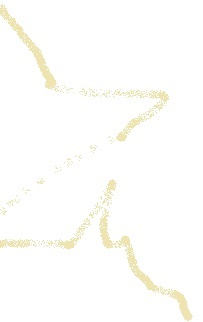
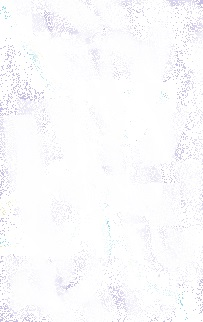
Rewarding success with embedding object-supplied JSON into the HTML SCRIPT & FORM elements.    But the Save isn't working.

diff --git a/ciBadgeForWeb/JS_Moveable_Divs_HTM/drag_elements_JSON_groups.htm b/ciBadgeForWeb/JS_Moveable_Divs_HTM/drag_elements_JSON_groups.htm
@@ -132,11 +132,11 @@
 
 
 
-    <div id="Element1" class="mydiv_class" style="position: absolute; top: 250px; left: 100px; border-width: thick; ">
+    <div id="Element1" class="mydiv_class" style="position: absolute; top: 250px; left: 100px; border-width: thin; ">
         <img src="blue_star.jpg" width="200" height="30" />
     </div>
 
-    <div id="Element2" class="mydiv_class" style="position: absolute; top: 250px; left: 200px; border-width: thick; ">
+    <div id="Element2" class="mydiv_class" style="position: absolute; top: 250px; left: 200px; border-width: thin; ">
         <img src="blue_star.jpg" width="200" height="30" />
     </div>
 
@@ -381,6 +381,10 @@
             //
             //for (each_ElementID in mod_array_elementIDs) {
             //mod_array_elementIDs.forEach(each_ElementID => {
+
+            let index_of_movedElement = mod_array_elementIDs.indexOf(par_omit_elmntDiv);
+            let boolHasItAlready = (0 <= index_of_element);
+
             mod_array_elementIDs.forEach(each_Element => {
                 // We are iterating through the selected Elements.
                 //-----tempElem = document.getElementById(each_ElementID);

diff --git a/ciBadgeForWeb/Models/JsonFile.cs b/ciBadgeForWeb/Models/JsonFile.cs
@@ -19,8 +19,21 @@ namespace ciBadgeForWeb.Models
         [Key]
         public int JsonFileID { get; set; }
 
-        public string JsonTextContent { get; set; }
+        //Added 3/21/2020 thomas downes
+        private string mod_JsonTextContent = "{\"Element4_top\":\"352px\",\"Element4_left\":\"532px\",\"Element3_top\":\"352px\",\"Element3_left\":\"314px\",\"Element6_top\":\"351px\",\"Element6_left\":\"91px\",\"Element5_top\":\"496px\",\"Element5_left\":\"87px\",\"Element2_top\":\"499px\",\"Element2_left\":\"313px\",\"Element1_top\":\"499px\",\"Element1_left\":\"535px\",\"Element9_top\":\"400px\",\"Element9_left\":\"88px\",\"Element8_top\":\"448px\",\"Element8_left\":\"87px\",\"Element10_top\":\"403px\",\"Element10_left\":\"314px\",\"Element11_top\":\"451px\",\"Element11_left\":\"314px\",\"Element12_top\":\"404px\",\"Element12_left\":\"533px\",\"Element7_top\":\"454px\",\"Element7_left\":\"535px\"}";
 
+        public string JsonTextContent {
+            get
+            {
+                //Added 3/21/2020 thomas downes
+                return mod_JsonTextContent;
+            }
+            set
+            {
+                //Added 3/21/2020 thomas downes
+                mod_JsonTextContent = value;
+            }
+        }
 
         public string FullPathToFile { get; set; }
 
@@ -35,10 +48,23 @@ namespace ciBadgeForWeb.Models
 
             // Get the JSON file.  
             strFullPathToJsonFile = ciBadgeForWeb.App_Start.DiskFiles.PathToFile_JSON_Current(true);
+            
+            // Added 3/21/2020 td
+            if (Directory.Exists(strFullPathToJsonFile))
+            {
+                if (false == File.Exists(strFullPathToJsonFile))
+                {
+                    // Added 3/21/2020 td
+                    throw new System.IO.FileNotFoundException("OOps... This is a folder, not a file.");
+                }
+            }
 
             this.FullPathToFile = strFullPathToJsonFile;
             this.JsonTextContent = File.ReadAllText(strFullPathToJsonFile);
 
+            if (false)
+            {  
+            }
 
         }
 

diff --git a/ciBadgeForWeb/App_Start/DiskFiles.cs b/ciBadgeForWeb/App_Start/DiskFiles.cs
@@ -278,10 +278,11 @@ namespace ciBadgeForWeb.App_Start
             {
                 // 2-4-2020 td //foreach (FileInfo file_Info in (new DirectoryInfo(strPathToFolderJSON)).GetFiles("*.JSON"))
                 FileInfo[] array_fileInfos = (new DirectoryInfo(strPathToFolderJSON)).GetFiles("*.JSON");  //Added 2/4/2020 thomas downes
+
                 foreach (FileInfo file_Info in array_fileInfos.OrderByDescending(n => n.LastWriteTime))
                 {
                     //Added 2/16/2020 thomas downes
-                    boolExpectedFileType = file_Info.Name.EndsWith(".JSON");
+                    boolExpectedFileType = file_Info.Name.EndsWith(".json");
                     boolPossiblyCorrupt = (!(boolExpectedFileType));
                     if (boolPossiblyCorrupt) continue;  //Skip this file!!
 

diff --git a/ciBadgeForWeb/Controllers/JsonFileController.cs b/ciBadgeForWeb/Controllers/JsonFileController.cs
@@ -32,8 +32,15 @@ namespace ciBadgeForWeb.Controllers
         {
             try
             {
-                // TODO: Add update logic here
+                // Save the JSON string with the Left & Top positions of the elements. 
 
+                //Added 3/21/2020 thomas downes
+                JsonFile_MoveableDivs.JsonTextContent = collection["JsonTextContent"];
+
+                //
+                // Important.... save to disk. 
+                //
+                //JsonFile_MoveableDivs.Save();  
 
                 return RedirectToAction("Index");
             }
